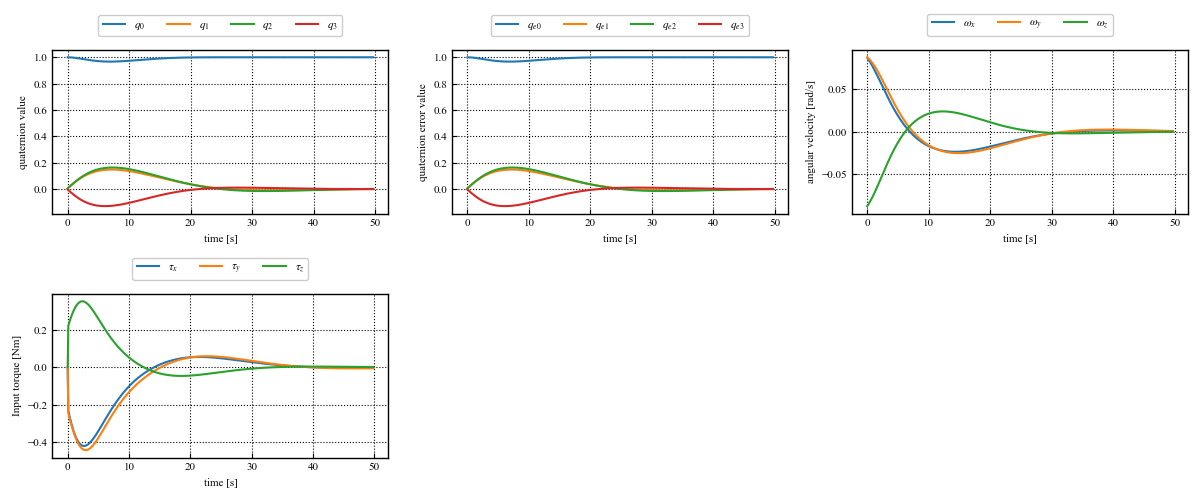
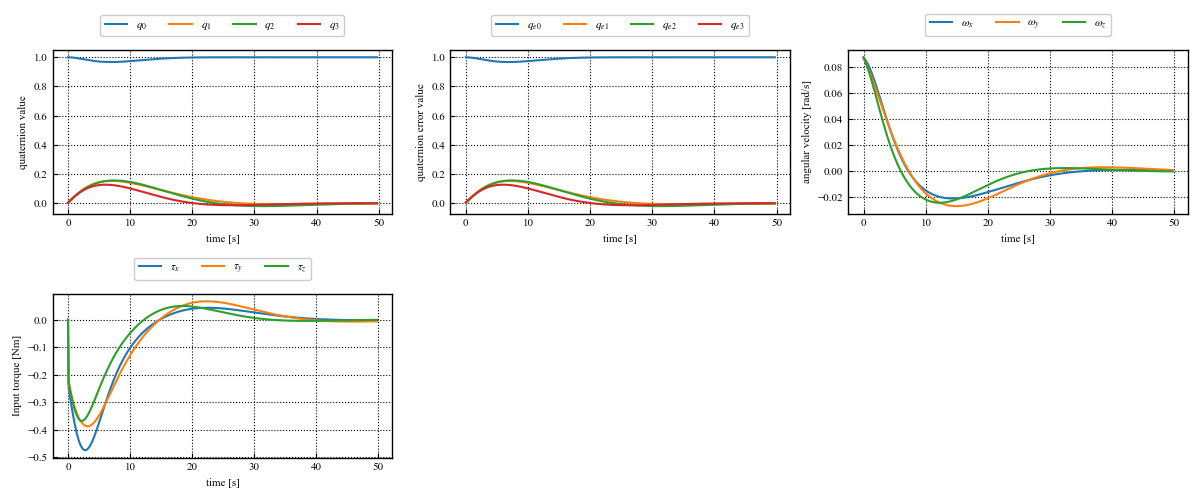
CHANGE: increase penalty

diff --git a/td3/environment.py b/td3/environment.py
@@ -149,7 +149,7 @@ class SatelliteContinuousEnv(gym.Env):
         self.q_weight = 50#1*20
         self.w_weight = 50#1.5*100
         self.action_weight = 0.25*2#0.25*10
-        self.action_rate_weight = 0.1*2
+        self.action_rate_weight = 0.1*8
         
         # 初期状態 角度(deg)　角速度(rad/s)
         # Rest to Rest
@@ -280,7 +280,7 @@ class SatelliteContinuousEnv(gym.Env):
             self.r4 = self.action_rate_weight*(action_delta@action_delta)/self.dt
             reward = -(self.r1 + self.r2 + self.r3 + self.r4) 
             if max(abs(action)) > 0.5:
-                reward += -30 
+                reward += -100 
 
         elif self.steps_beyond_done is None:
             # epsiode just ended
@@ -290,7 +290,7 @@ class SatelliteContinuousEnv(gym.Env):
                 self.r2 = 0
                 self.r3 = 0
                 self.r4 = 0
-                reward = 50
+                reward = 1000
             else:
                 self.r1 = self.q_weight*((1-qe_new[0])**2+ qe_new[1:]@qe_new[1:])
                 self.r2 = self.w_weight*omega_new@omega_new
